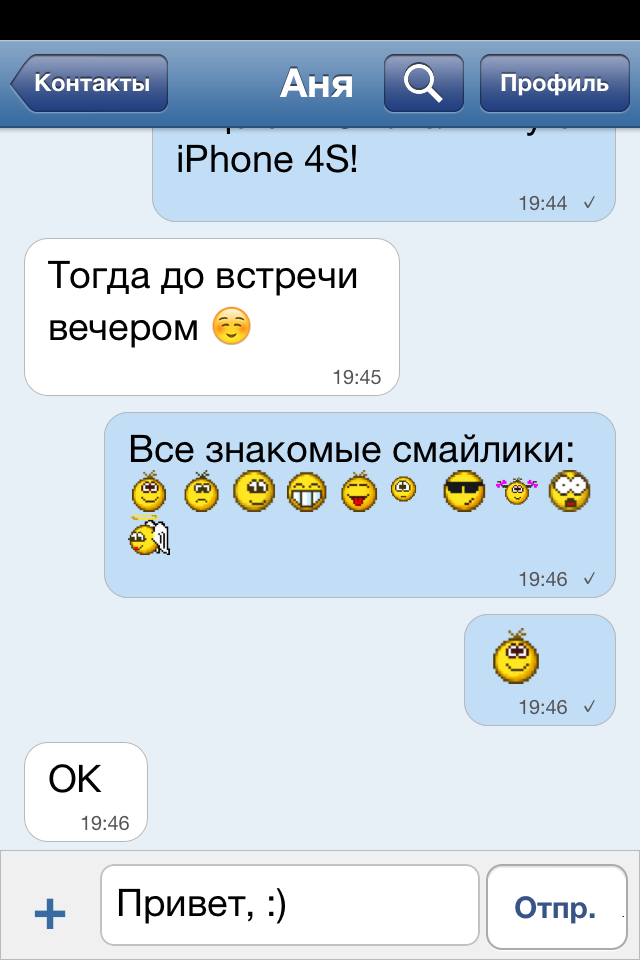
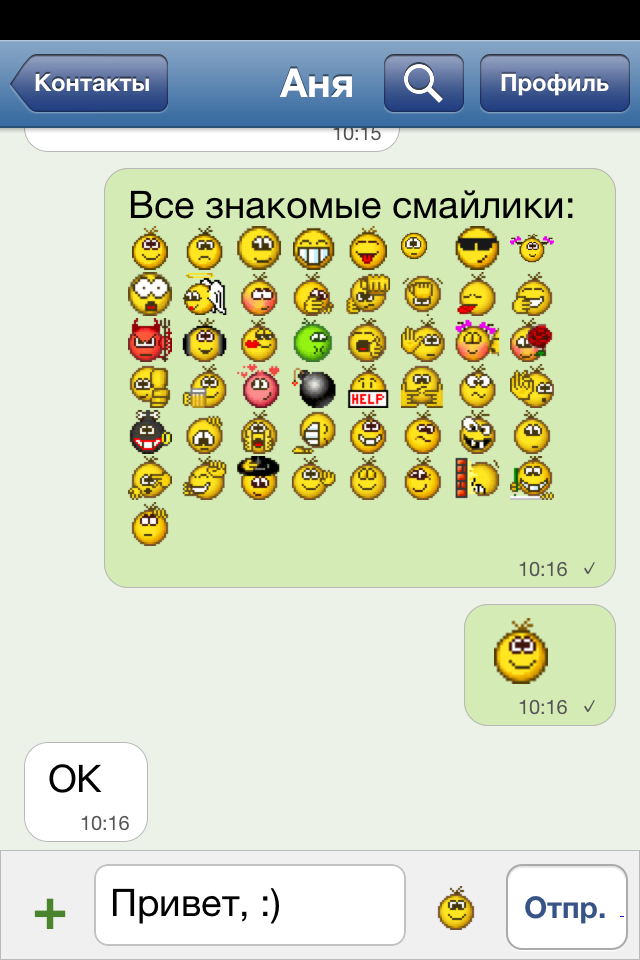
Update Jim Classic to build 14 with faster contacts and draft saving

diff --git a/README.md b/README.md
@@ -7,7 +7,7 @@
 **Знакомая аська на классическом iPhone.** Контакты, сообщения, фотографии,
 смайлики и X-статусы — в нативном интерфейсе с темами ICQ, QIP и Jimm.
 
-**Сборка 9 · iOS 6.1.3–6.1.6 и iOS 9.x · ARMv7 · Jailbreak + AppSync**
+**Сборка 14 · iOS 6.1.3–6.1.6 и iOS 9.x · ARMv7 · Jailbreak + AppSync**
 
 Jim Classic — полноценное самостоятельное приложение для общения в сети **Jimm.online**.
 Оно устанавливается на домашний экран и работает напрямую с сервисом, без
@@ -17,15 +17,15 @@ Jim Classic — полноценное самостоятельное прило
 
 [Установить Jim](#install-jim) · [Возможности](#jim-features) · [Фотографии](#jim-photos) · [Обновление](#update-jim) · [Загрузки](https://github.com/MiChiRose/Jim-iOS/releases)
 
-## Новое в сборке 9
+## Новое в сборке 14
 
-- Компактные сообщения и короткие индикаторы отправки; полный статус открывается нажатием.
-- Одиночные смайлики крупнее. Набор ICQ Classic, QIP или Jimm выбирается отдельно от темы в **Мой Jim → Смайлики**.
-- Улучшено восстановление соединения при истечении сессии и смене сети.
-- Раздел **Мой Jim → Сеть и диагностика** показывает состояние подключения и позволяет скопировать отчёт без паролей, токенов и переписки.
+- **Быстрее контакты и история:** меньше повторных расчётов, запросов к базе и перерисовок при смене статуса или загрузке аватара.
+- **Черновики без лишних записей:** текст сохраняется порциями при наборе и сразу при уходе из чата или сворачивании приложения.
+- **49 жёлтых пиксельных смайликов:** прокручиваемая палитра, отдельная кнопка и удаление символа; набор QIP доступен отдельно от темы.
+- **Понятные уведомления:** независимые звук и вибрация, список «Тихие чаты» и статус «Не беспокоить». При чтении открытого чата лишних сигналов нет.
+- Сохранены компактные сообщения, фотографии, поиск, X-статусы и восстановление связи.
 
-Переписка, смайлики и восстановление связи проверены на iPhone 4S с iOS 6.1.3.
-Версия пакетов Cydia — **0.1.0-9**.
+Сохранение черновиков и ускорение контактов в сборке 14 подтверждены владельцем на iPhone 4S с iOS 6.1.3. Версия пакетов Cydia — **0.1.0-14**.
 
 <a name="install-jim"></a>
 
@@ -102,7 +102,7 @@ USB/IPA-копии. Сохраните существующий Jim и его и
 
 <table>
   <tr>
-    <td align="center" width="50%"><img src="images/chat.png" width="280" alt="Компактные сообщения в сборке 9"></td>
+    <td align="center" width="50%"><img src="images/chat.png" width="280" alt="Компактные сообщения в сборке 14"></td>
     <td align="center" width="50%"><img src="images/smileys.png" width="280" alt="Компактная палитра смайликов Jim Classic"></td>
   </tr>
   <tr><td align="center"><strong>Компактная переписка</strong></td><td align="center"><strong>Смайлики</strong></td></tr>
